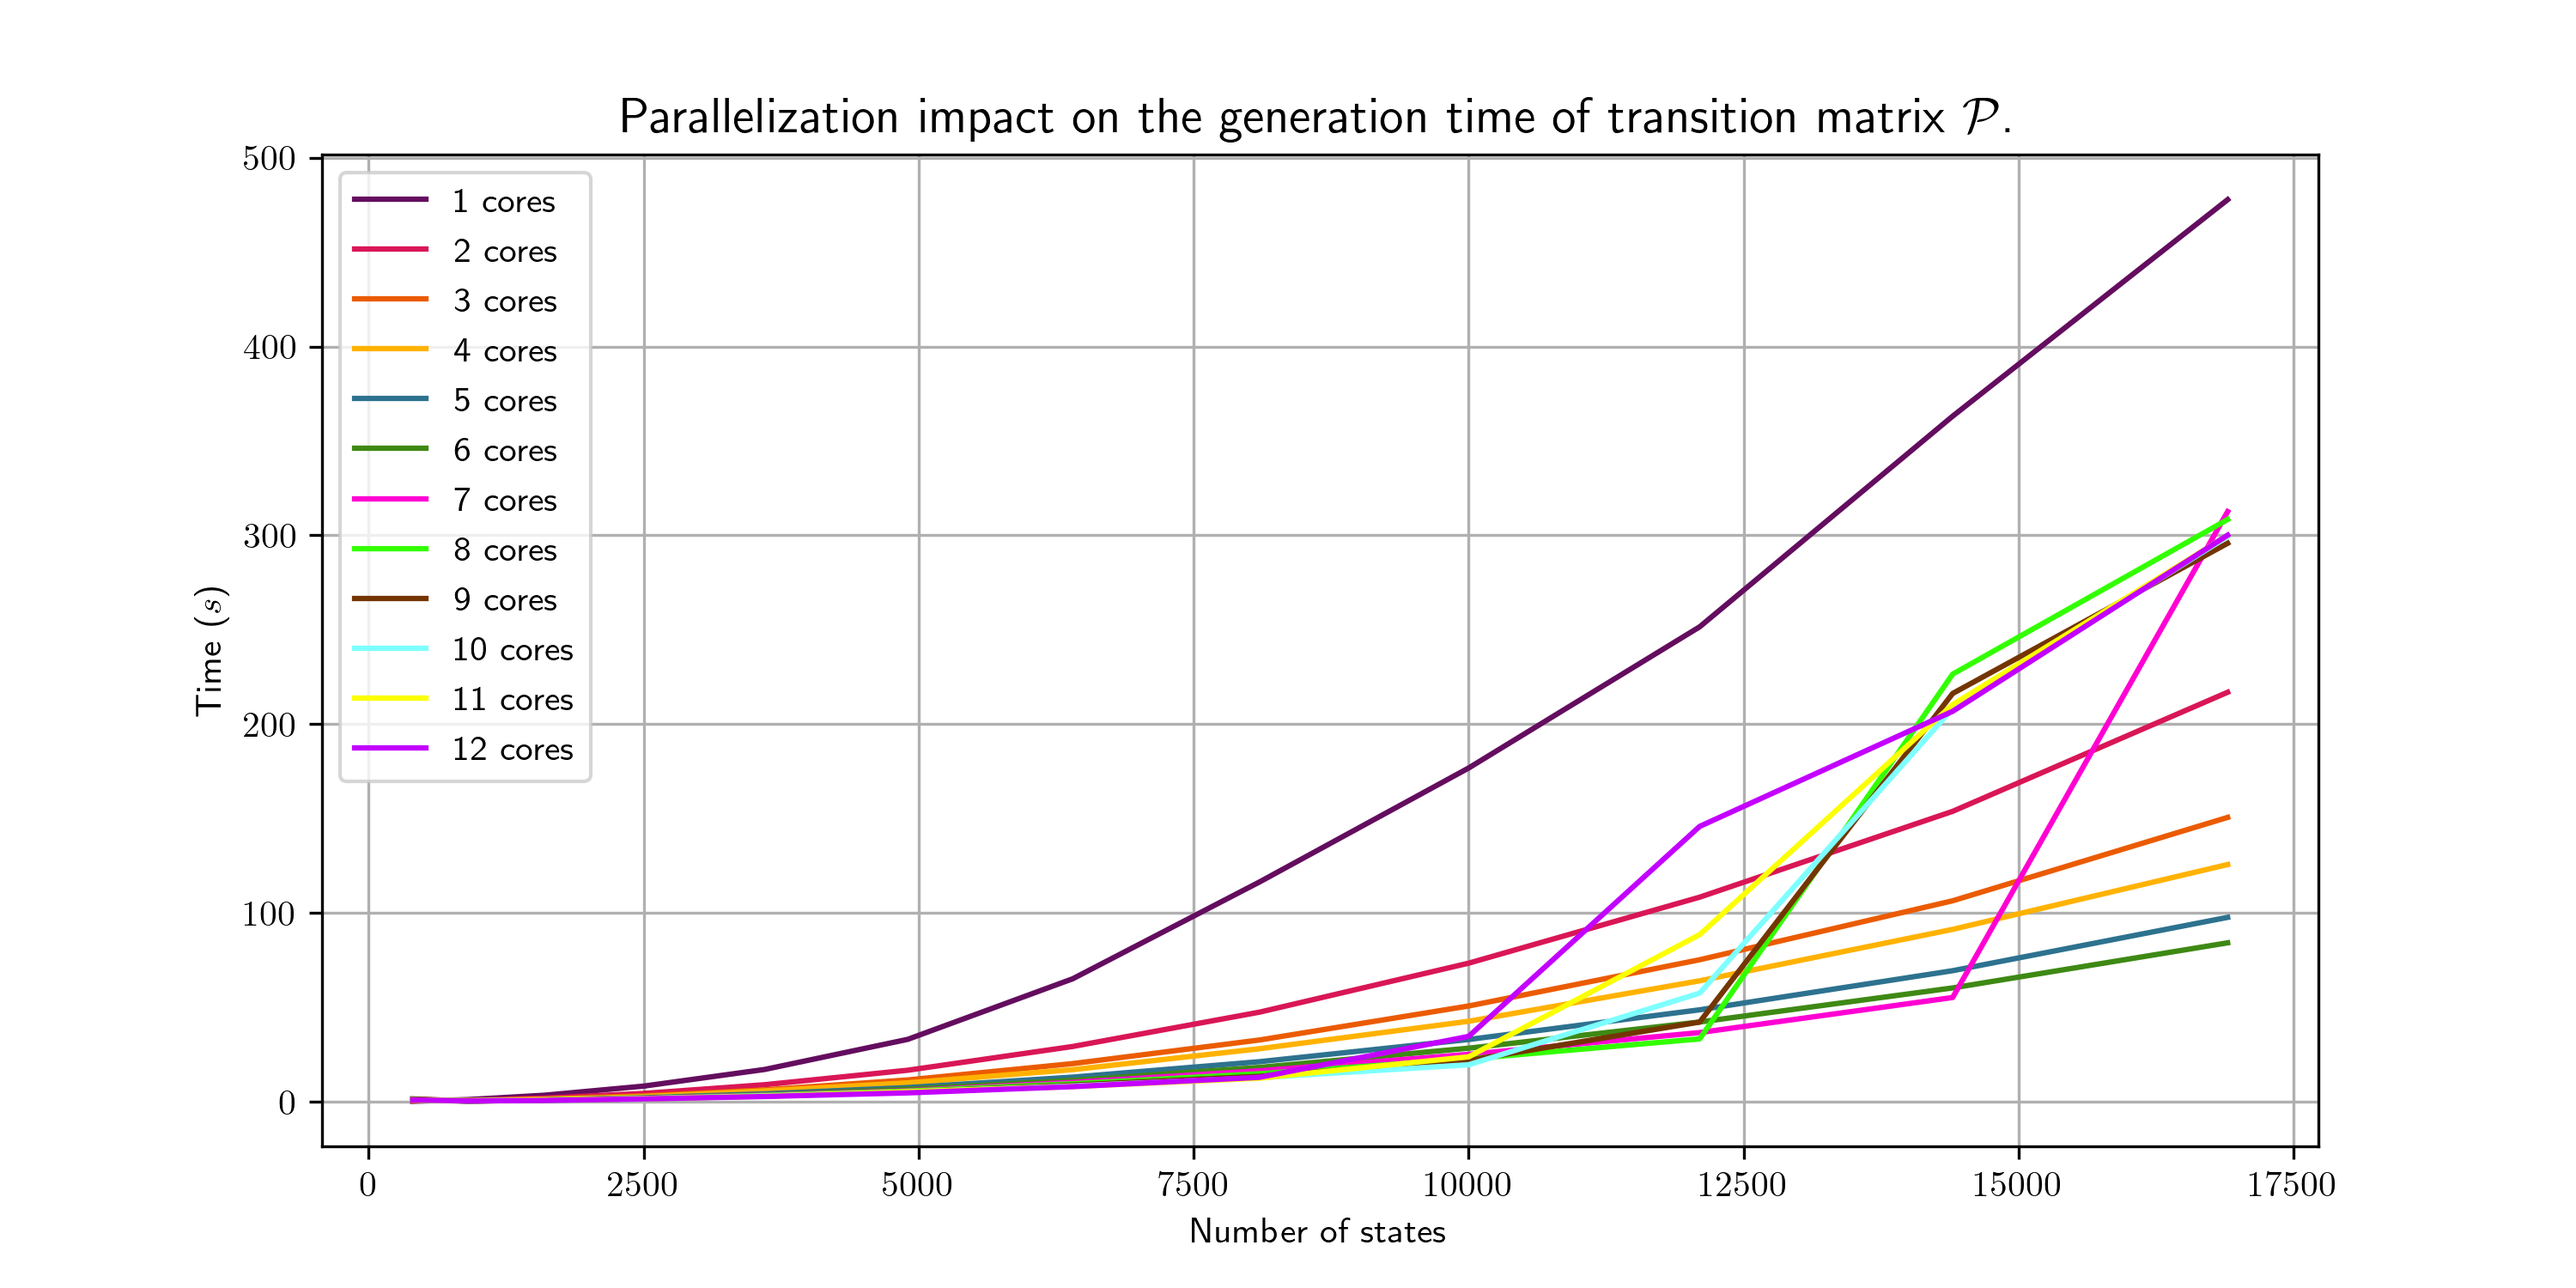
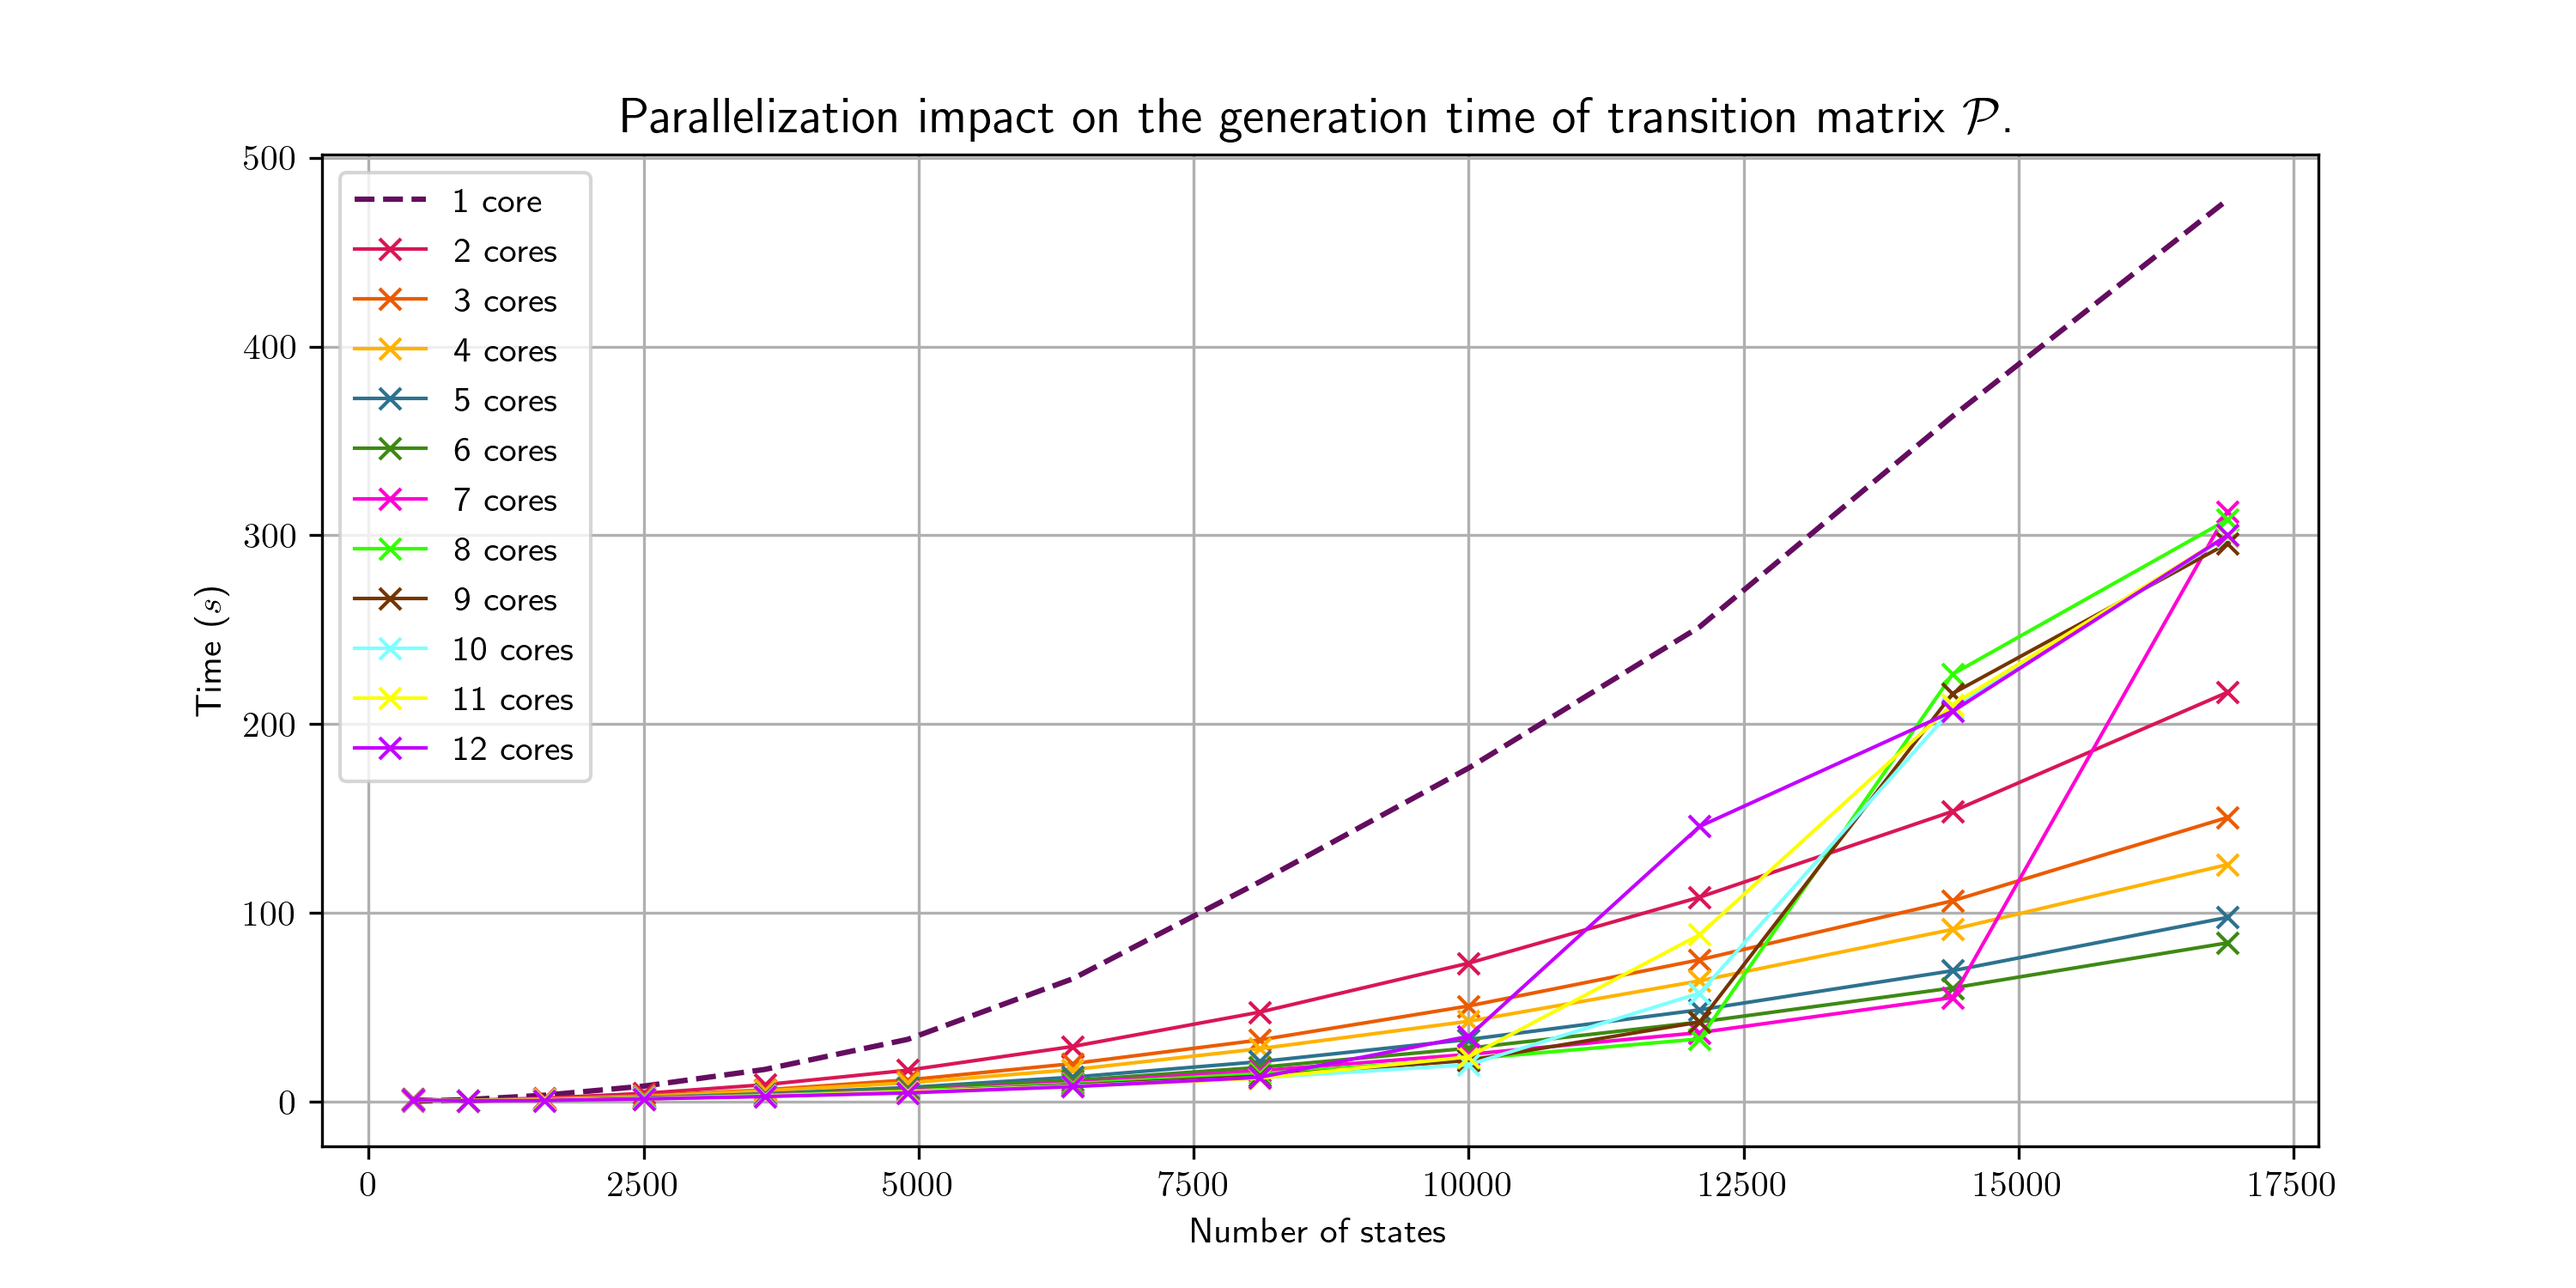
Changed benchmark p plots

diff --git a/utils/benchmarks.py b/utils/benchmarks.py
@@ -101,7 +101,10 @@ def benchmark_parallel_p(
     for i, core in enumerate(results.keys()):
         times = [elem[1] for elem in results[core]]
         states = [elem[0] for elem in results[core]]
-        plt.plot(states, times, label=f"{core} cores", color=palette[i])
+        if i == 0:
+            plt.plot(states, times, label=f"{core} core", color=palette[i], linestyle="--")
+        else:
+            plt.plot(states, times, label=f"{core} cores", color=palette[i], linewidth=1, marker="x")
         
     
     plt.title("Parallelization impact on the generation time of transition matrix $\mathcal{P}$.", fontsize=14, fontweight="bold")

diff --git a/utils/utils.py b/utils/utils.py
@@ -357,7 +357,6 @@ def generate_parallel_p_table(save_path: str = "assets/parallel_p_table.txt"):
         table_lines.append(first_line)
         title = f"| {behaviour} MDP"
         title += (" " * (len(first_line) - len(title) - 1)) + "|"
-        # title += "|"e
         table_lines.append(title)
         table_lines.append("|--------------------------------------|")
         table_lines.append("| Num States | Cores | Time (s)        |")
